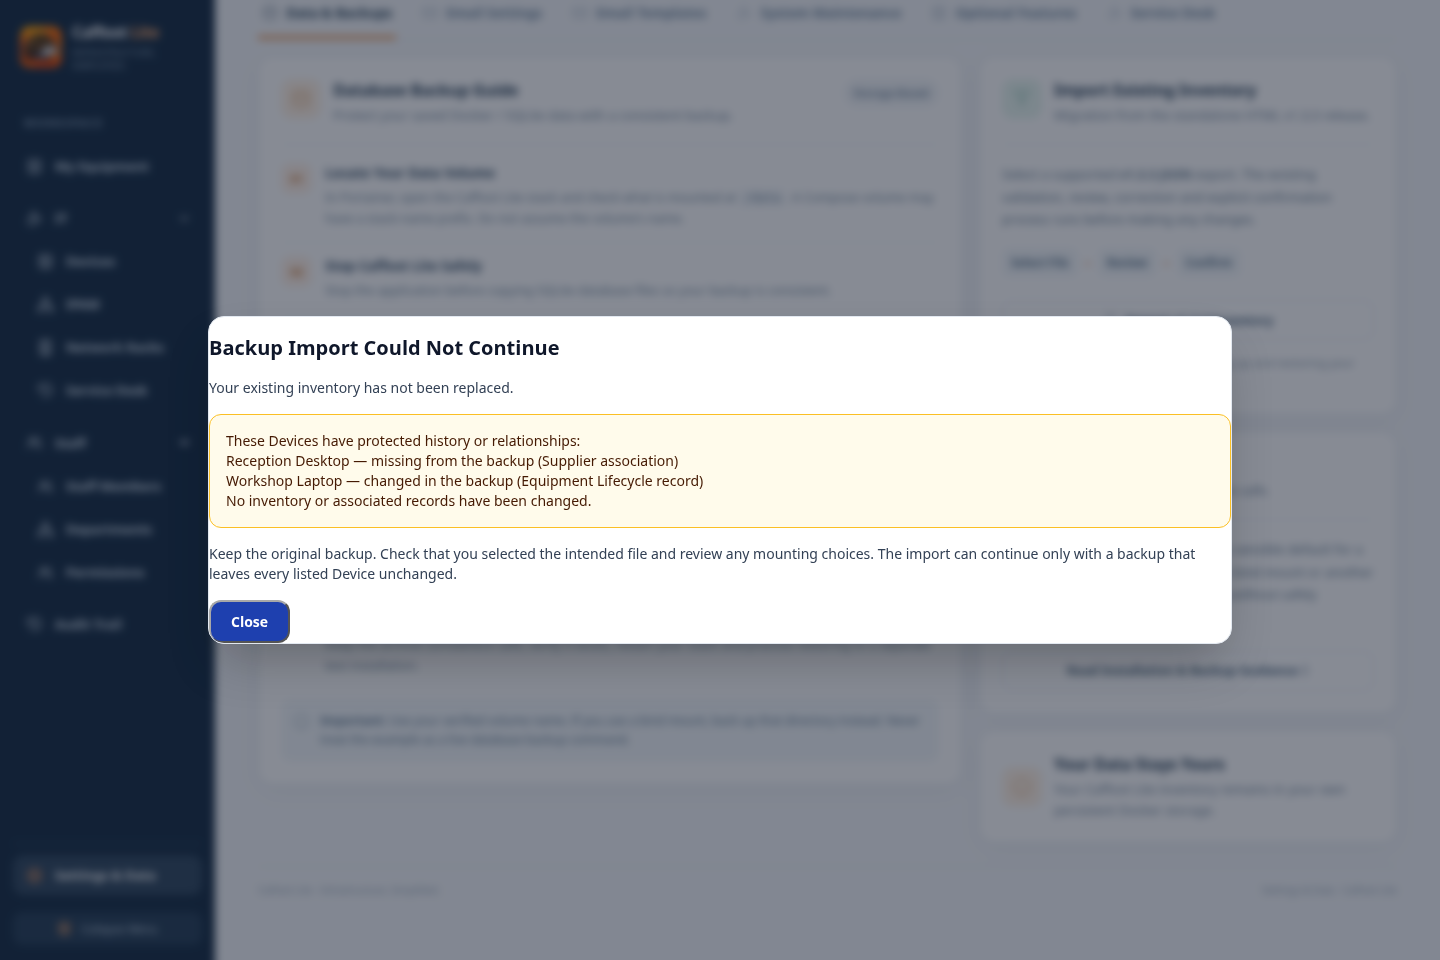
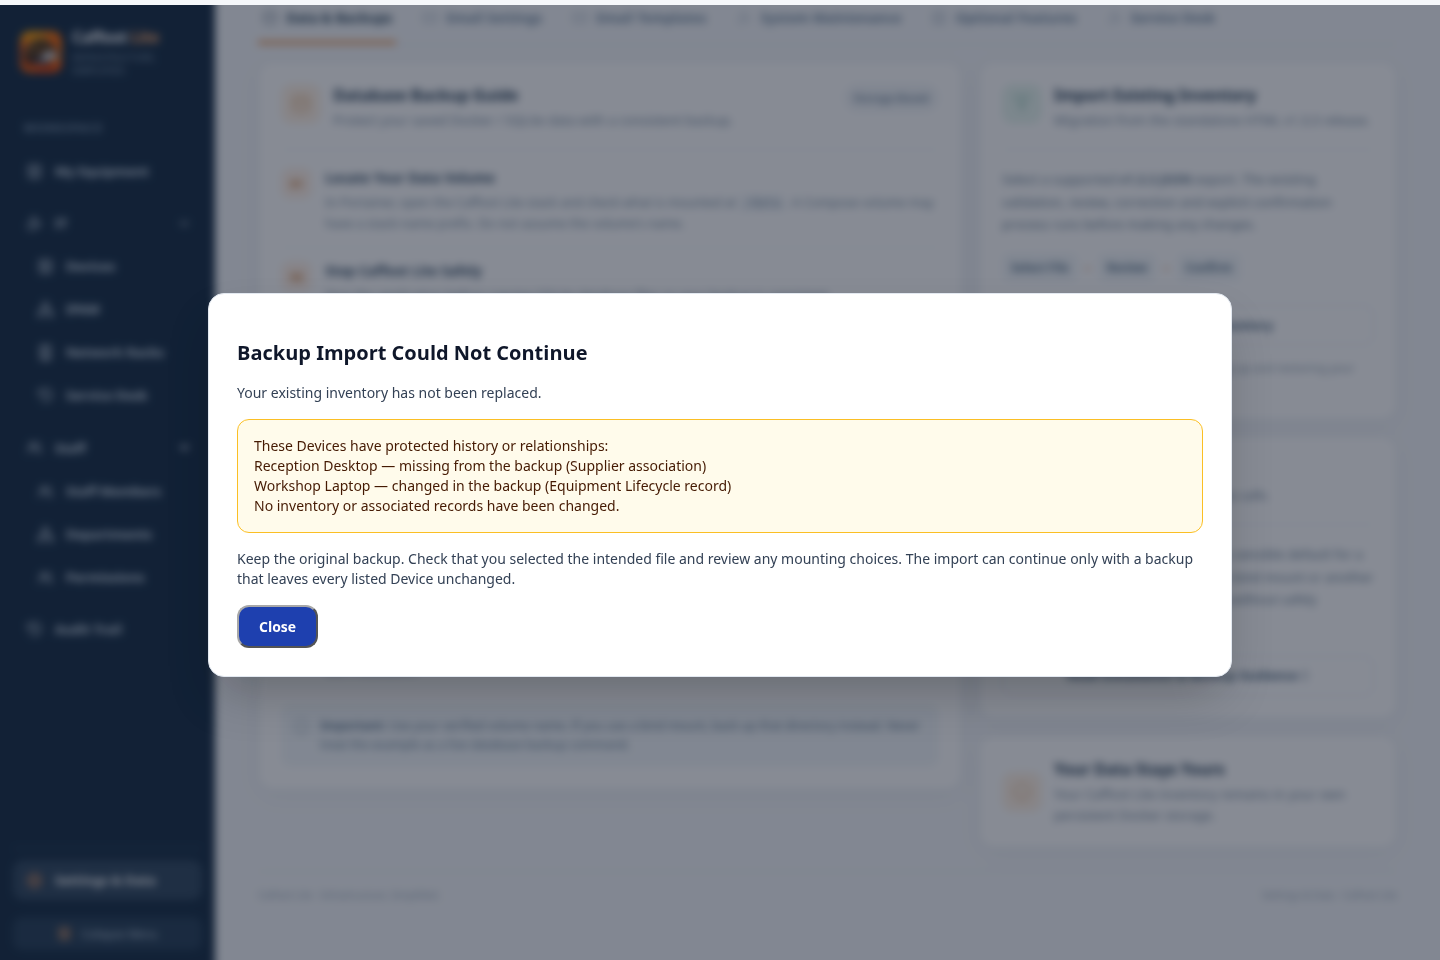
Refresh protected import rejection evidence

Changed region(s): [[0.125, 0.2812, 0.875, 0.5312], [0.125, 0.5625, 0.875, 0.7188], [0.0, 0.0, 1.0, 0.0938]]

diff --git a/docs/development-handovers/evidence/stage-6-2/README.md b/docs/development-handovers/evidence/stage-6-2/README.md
@@ -7,7 +7,8 @@
 | Published v1.3.3 HTML, export schema 1 | [`65d9e016c6ddefcd43f236cacdf78fa168e7472f`](https://github.com/Caffoot/Caffoot-Lite/commit/65d9e016c6ddefcd43f236cacdf78fa168e7472f) |
 | Published v2.1 Docker source, SQLite schema 10 | [`c3237114108cad9f7d4e57657b6aed5e0091a5ef`](https://github.com/Caffoot/Caffoot-Lite/commit/c3237114108cad9f7d4e57657b6aed5e0091a5ef) |
 | Starting `milestone-1` integration, unreleased v2.2, SQLite schema 28 | [`2107de3668b08c5abdfdae6fe231a3114bbfc380`](https://github.com/Caffoot/Caffoot-Lite/commit/2107de3668b08c5abdfdae6fe231a3114bbfc380) |
-| Corrected runtime and application captures, SQLite schema 28 | [`222439bd82bc46d63cb3d232fde801cc378d426e`](https://github.com/Caffoot/Caffoot-Lite/commit/222439bd82bc46d63cb3d232fde801cc378d426e) |
+| Stage 6.2 import runtime and original review and success captures, SQLite schema 28 | [`222439bd82bc46d63cb3d232fde801cc378d426e`](https://github.com/Caffoot/Caffoot-Lite/commit/222439bd82bc46d63cb3d232fde801cc378d426e) |
+| Protected import rejection padding and refreshed rejection captures, SQLite schema 28 | [`9458ef86e5588a096a6b2fca6bc9d757a31abaaa`](https://github.com/Caffoot/Caffoot-Lite/commit/9458ef86e5588a096a6b2fca6bc9d757a31abaaa) |
 
 ## Correction And Focused Backend Verification
 
@@ -48,7 +49,17 @@ Captured on Chromium 156.0.8078.79 with Playwright 1.62.1 and Node 24.22.3 on De
 | [Access Point review](01-access-point-review.png) | Landing Access Point needs a mounting decision. |
 | [Replacement review](02-replacement-review.png) | Inventory counts, the proposed laptop mounting correction and confirmation choices. |
 | [Successful import](03-import-success.png) | The application confirms that inventory was imported. |
-| [Protected import rejection](04-protected-import-rejection.png) | Missing Supplier-linked Reception Desktop and changed Workshop Laptop with a Lifecycle record. |
+
+### Protected Import Rejection Captures
+
+The four captures below were taken on 24 November 2026 from the padded rejection dialog using the runtime and browser runner in `9458ef86e5588a096a6b2fca6bc9d757a31abaaa`. Chromium 156.0.8078.79 and Playwright 1.62.1 ran with Node 24.22.3 on Debian 13 AMD64, using the same fictional inventory and loopback HTTPS setup. The dialog lists the missing Supplier-linked Reception Desktop and changed Workshop Laptop with a Lifecycle record.
+
+| Viewport | Light mode | Dark mode | Measured padding |
+| --- | --- | --- | --- |
+| Desktop, 1440 × 960 | [Desktop light](04-protected-import-rejection.png) | [Desktop dark](04-protected-import-rejection-desktop-dark.png) | 28 px |
+| Mobile, 390 × 844 | [Mobile light](04-protected-import-rejection-mobile-light.png) | [Mobile dark](04-protected-import-rejection-mobile-dark.png) | 24 px |
+
+The genuine Chromium run passed the rejection, conflict text, unchanged database and Close checks in all four views. The modular interface's template resolution and pinned stylesheet checks also passed.
 
 To reproduce, fetch the published `v1.3.3` tag and run the browser test using the repository's existing Playwright setup.
 

diff --git a/docs/how-tos/features-and-instructions/v2.2-draft/Legacy-Import-and-Docker-Upgrade.md b/docs/how-tos/features-and-instructions/v2.2-draft/Legacy-Import-and-Docker-Upgrade.md
@@ -49,6 +49,8 @@ If the reviewed backup changes or omits any protected Device, Caffoot Lite rejec
 
 *Both conflicts appear in the same rejection. Keep the original backup and review the file and mounting choices before starting again.*
 
+See the [desktop and mobile rejection captures in light and dark modes](../../../development-handovers/evidence/stage-6-2/README.md#protected-import-rejection-captures).
+
 | What you see | What to check |
 | --- | --- |
 | **Import v1.3.3 Inventory** is unavailable | Confirm the session belongs to an active MFA-enrolled Administrator and that Devices, IPAM and Racks are enabled. |
